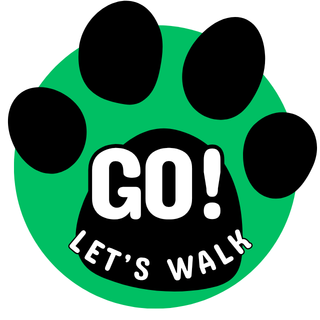
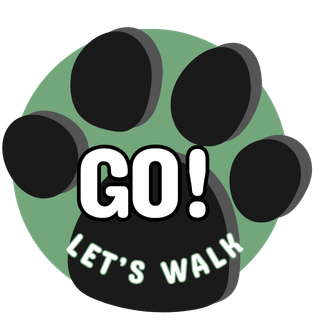
עדכון עיצוב כפתורי התחלה/סיום טיול ותמונה חדשה בגלריה
- החלפת cta-start.png/cta-stop.png בעיצוב החדש שהמשתמש סיפק (אותם שמות קבצים,
  אין שינוי קוד - ה-CSS הקיים ממשיך לעבוד).
- הוספת g64.png לגלריית תמונות הכלב (כלב פרוותי בצבע קרם עם רצועת צווארון ורודה),
  לאחר הרכבה על רקע לבן אטום (כמו שאר הגלריה) ובדיקת hash מול כל 63 התמונות
  הקיימות - לא נמצאה כפילות.
- GALLERY_COUNT (public/index.html) ו-GALLERY_ICON_COUNT (server.js) עודכנו יחד
  מ-63 ל-64.

diff --git a/public/index.html b/public/index.html
@@ -777,7 +777,7 @@
   var FALLBACK_PAW_SVG = '<svg viewBox="0 0 24 24" fill="currentColor" style="color:var(--text-muted)">'+
     '<path d="M8.5 8.8c1 0 1.9-1.1 1.9-2.4S9.5 4 8.5 4 6.6 5.1 6.6 6.4s.9 2.4 1.9 2.4Zm7 0c1 0 1.9-1.1 1.9-2.4S16.5 4 15.5 4s-1.9 1.1-1.9 2.4.9 2.4 1.9 2.4ZM4.8 13.6c.9 0 1.7-1 1.7-2.2s-.8-2.2-1.7-2.2-1.7 1-1.7 2.2.8 2.2 1.7 2.2Zm14.4 0c.9 0 1.7-1 1.7-2.2s-.8-2.2-1.7-2.2-1.7 1-1.7 2.2.8 2.2 1.7 2.2ZM12 12.8c-2.4 0-5.6 2.6-5.6 5.6 0 1.4 1 2.3 2.3 2.3.9 0 1.6-.5 2.3-.9.4-.3.8-.5 1-.5s.6.2 1 .5c.7.4 1.4.9 2.3.9 1.3 0 2.3-.9 2.3-2.3 0-3-3.2-5.6-5.6-5.6Z"/></svg>';
 
-  var GALLERY_COUNT = 63;
+  var GALLERY_COUNT = 64;
   var GALLERY_ITEMS = [];
   for(var _gi=1; _gi<=GALLERY_COUNT; _gi++){ GALLERY_ITEMS.push({ id:"g"+_gi, src:"/dog-icons/g"+_gi+".png" }); }
   function galleryImageSrc(id){

diff --git a/server.js b/server.js
@@ -34,7 +34,7 @@ function displayDogName(name) {
 // גבוה מהטווח - והתוצאה היא שמשתמש/ת שבחר/ה תמונה חדשה יראה את האייקון שלו/שלה כראוי
 // (כי זה מגיע מהפרופיל המקומי, בלי לעבור sanitize), אבל כל שאר המשתמשים יראו עבורו/ה
 // רק אייקון כף-רגל גנרי במקום - בדיוק הבאג שתוקן ב-2026-10-16.
-const GALLERY_ICON_COUNT = 63;
+const GALLERY_ICON_COUNT = 64;
 const ID_RE = /^[A-Za-z0-9-]{1,64}$/; // תואם למזהים שנוצרים ב-localStorage בצד הלקוח
 const INVITE_COOLDOWN_MS = 10 * 60 * 1000; // מגבלת קצב: הזמנה אחת לכל זוג כל 10 דק'
 
